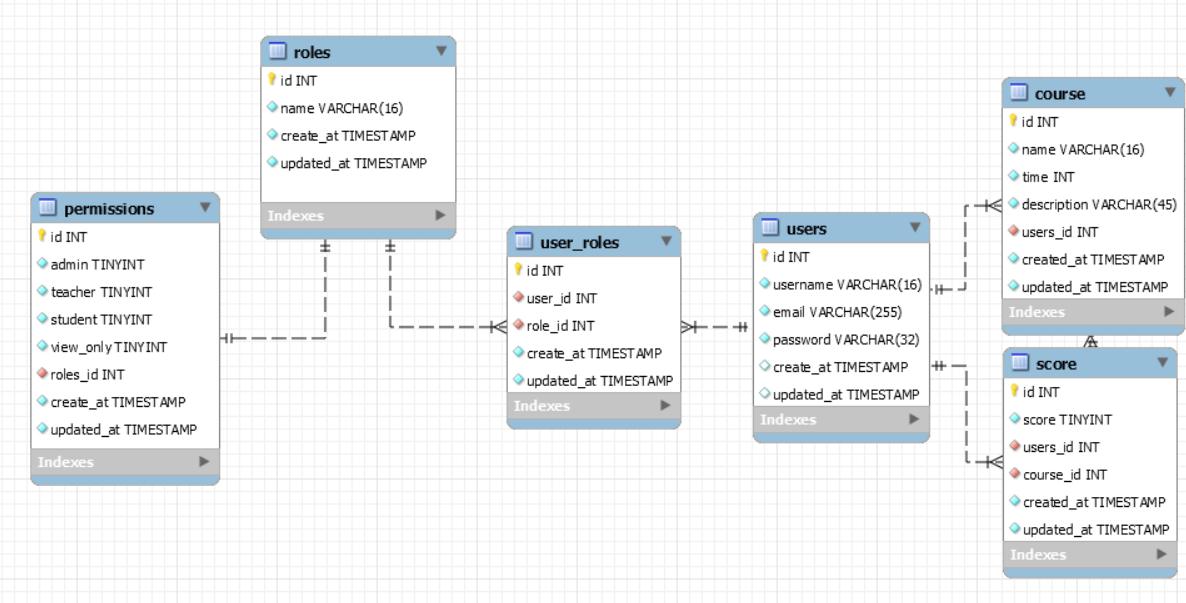
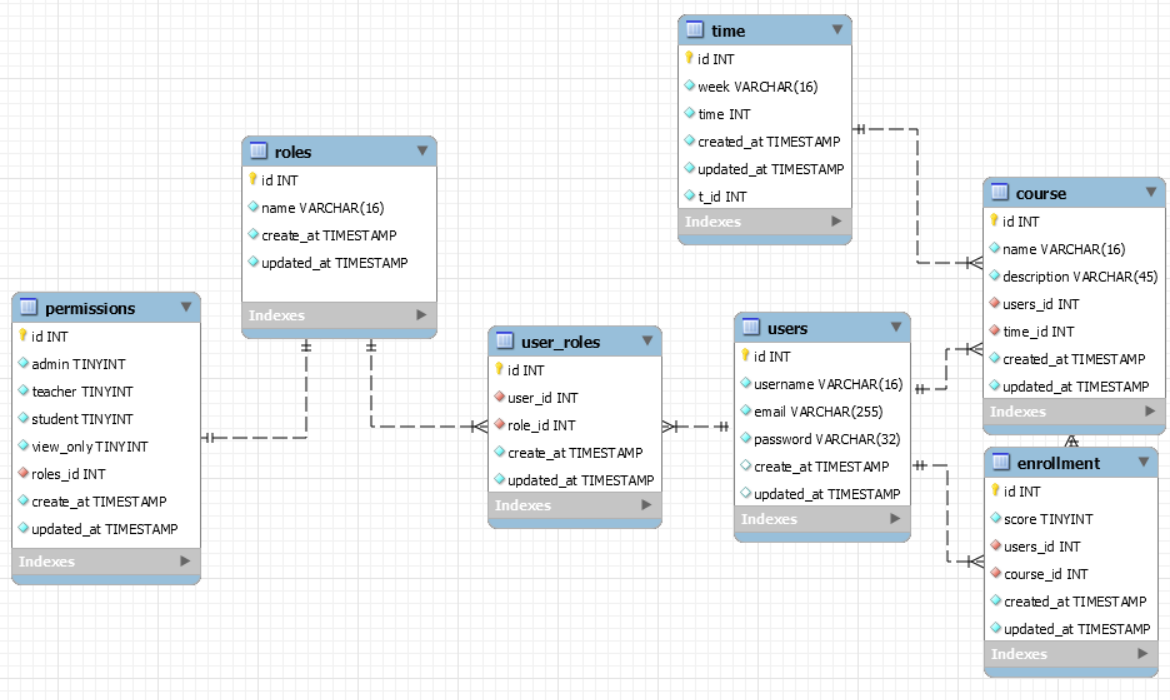
feat: enroll course

Changed region(s): [[0.0, 0.0597, 1.0, 0.9851], [0.5538, 0.0, 0.7385, 0.0896], [0.1538, 0.597, 0.2769, 0.6567]]

diff --git a/controllers/enrollment-controller.js b/controllers/enrollment-controller.js
@@ -1,7 +1,35 @@
 const db = require('../models')
-const { enrollments } = db
+const { course, role, user_role, enrollment } = require('../models')
 
 // create, edit, viewAll, view, delete
 const enrollmentController = {
+  NewCourse: async (req, res) => {
+    const courseId = req.params.id
+    const id = req.user.id
+
+    const roleId = await user_role.findOne({ where: { userId: id }, raw: true })
+
+    const identity = await role.findOne({ where: { id: roleId.role_id }, raw: true })
+
+    if (identity.name !== "student") {
+      return res.status(401).json({
+        status: 'error',
+        message: "Only student can enroll course"
+      })
+    }
+
+    const newCourse = await enrollment.create({
+      courseId,
+      userId: id
+    })
+
+    return res.status(200).json(
+      {
+        status: 'success',
+        message: 'New course added to student plan',
+        newCourse
+      })
+
+  }
 }
 module.exports = enrollmentController

diff --git a/routes/index.js b/routes/index.js
@@ -18,6 +18,7 @@ router.get('/', (req, res) => {
 router.get('/courses/:id', authenticated, courseController.getCourse)
 router.put('/courses/:id', authenticated, courseController.editCourse)
 router.delete('/courses/:id', authenticated, courseController.deleteCourse)
+router.post('/courses/:id', authenticated, enrollmentController.NewCourse)
 router.get('/courses', authenticated, courseController.getCourses)
 router.post('/courses', authenticated, courseController.NewCourse)
 
